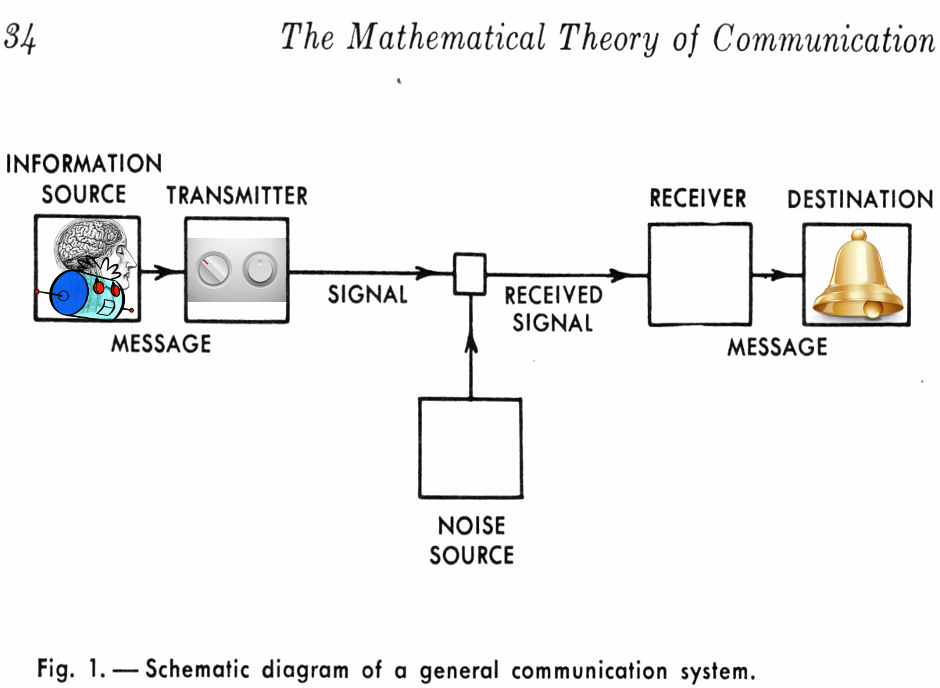
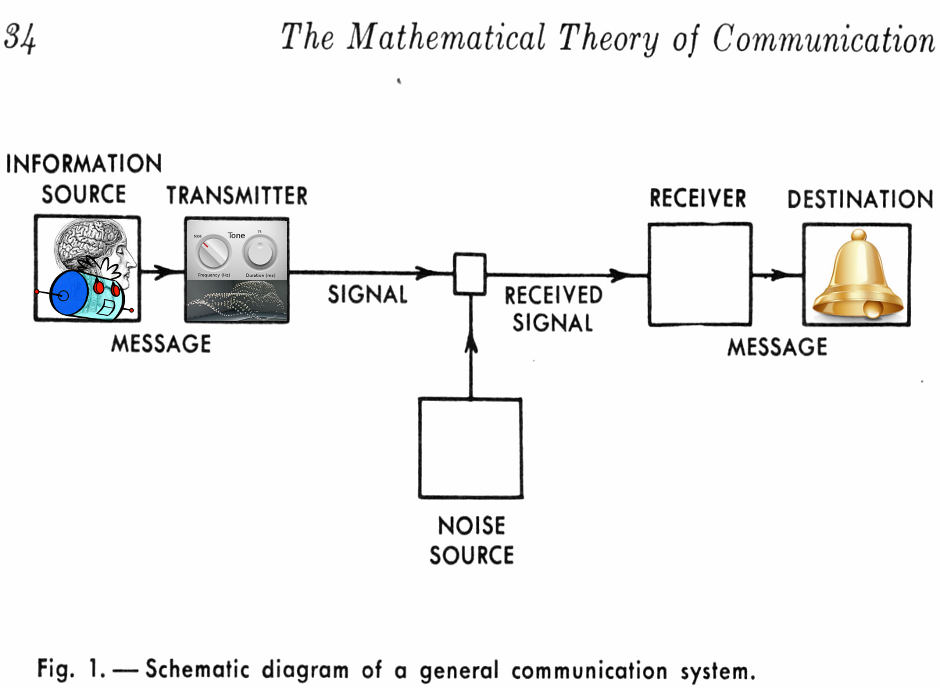
Modified some images.

Changed region(s): [[0.1851, 0.3052, 0.3085, 0.4884]]

diff --git a/languages-human-electro-mechanical.md b/languages-human-electro-mechanical.md
@@ -18,4 +18,4 @@ Mass is distributed geometrically in 3D space and time with forces acting on it.
 
 Electronic component values and electric signals.
 
-[![](assets/img/knobs-signals.png)](pcb)
+[![](assets/img/kinetic-signals.png)](pcb)
